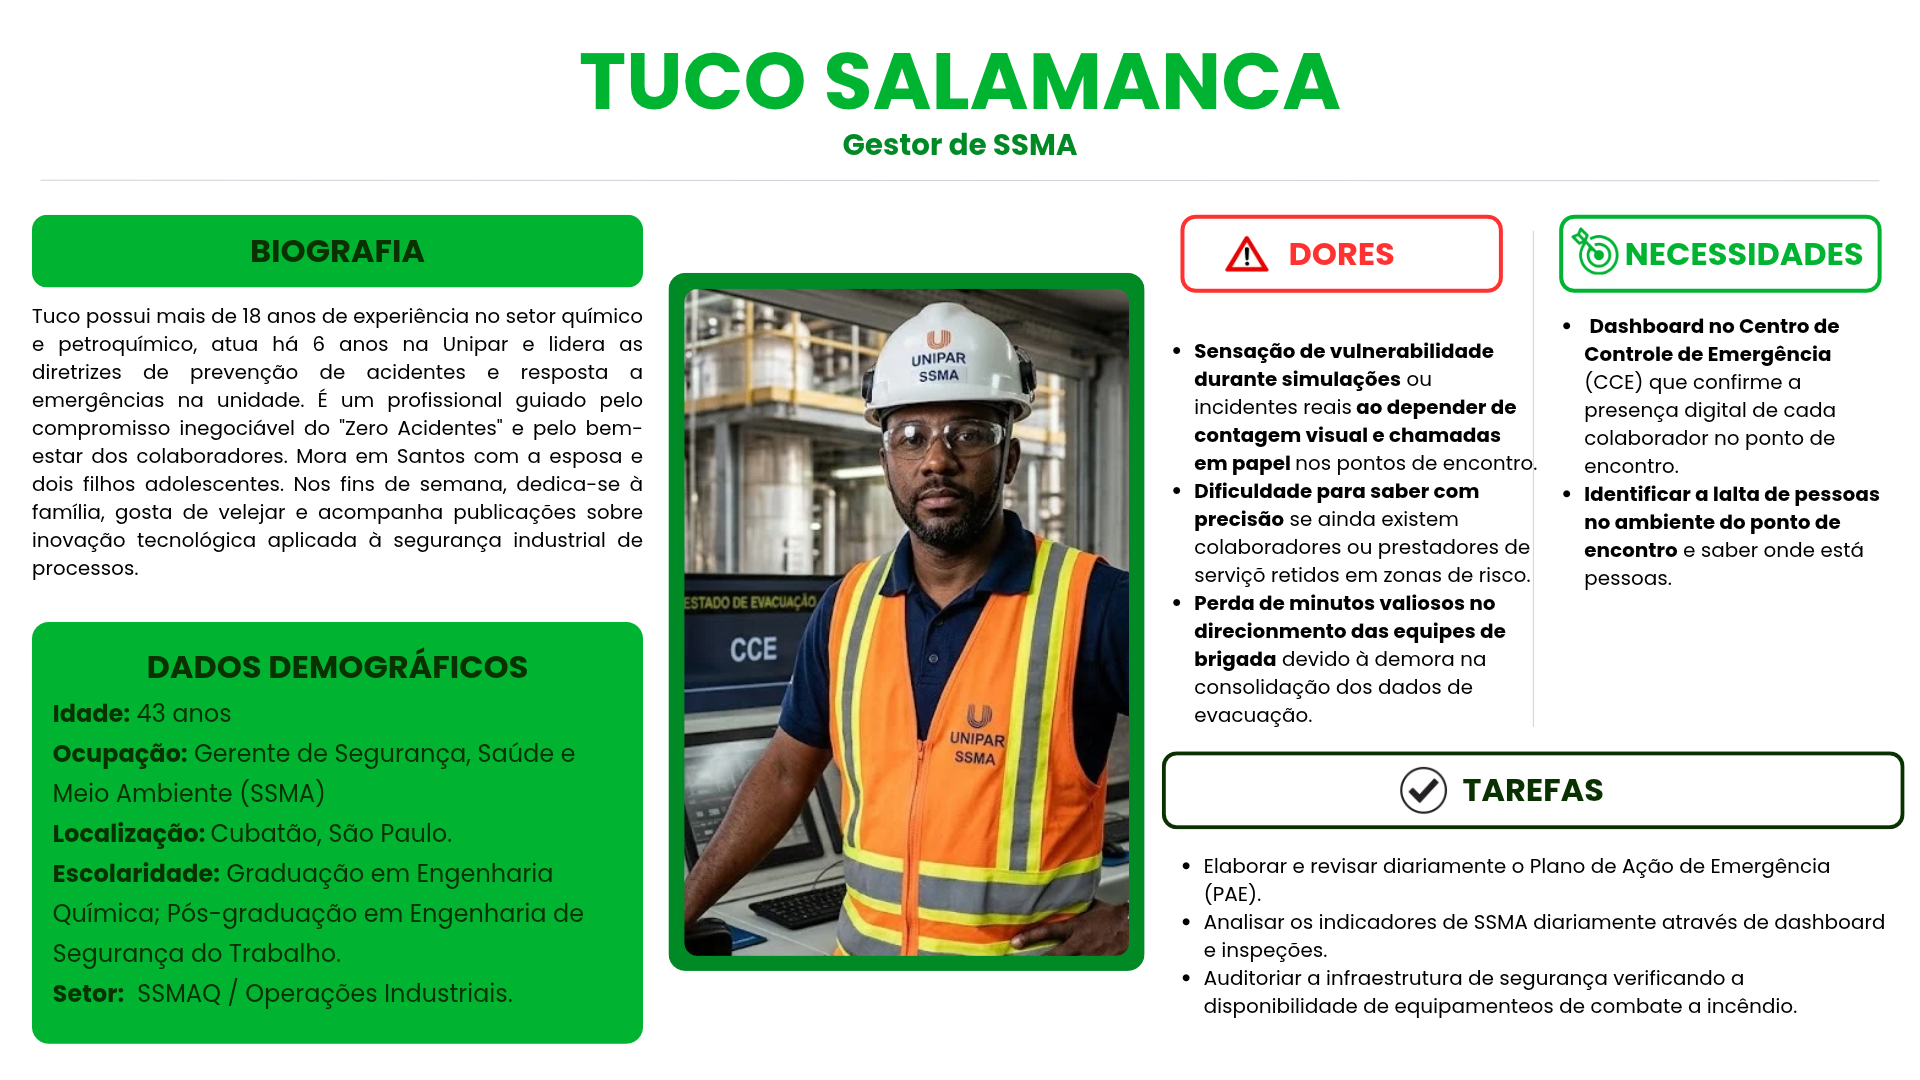
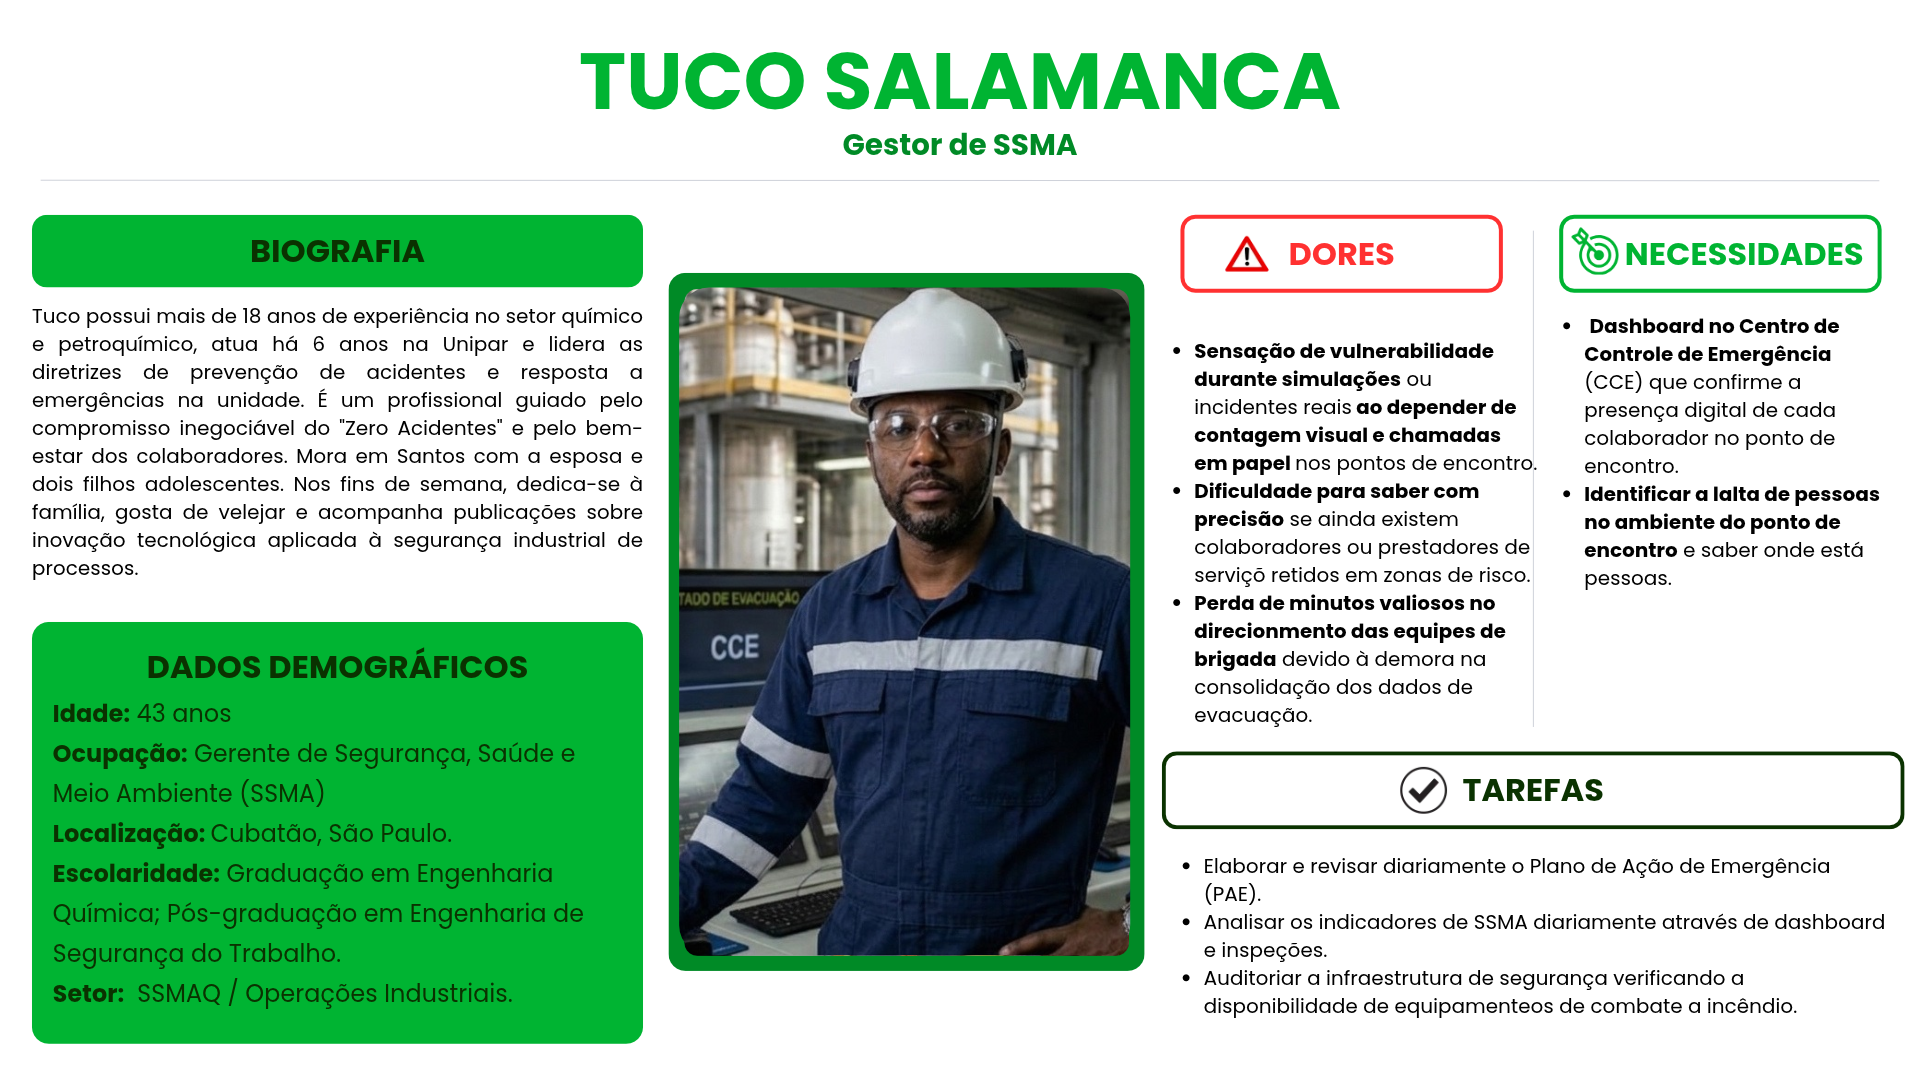
fix(#34): Arrumar imagem da persona de gestor de SSMA

Changed region(s): [[0.3438, 0.2444, 0.5938, 0.8861]]

diff --git a/document/documentacao.md b/document/documentacao.md
@@ -248,7 +248,7 @@ Maria trabalhou em funções de apoio à operação antes de passar para a sala 
 #### 3.2.1.4 Persona - Gestor de SSMA (Segurança, Saúde e Meio Ambiente)
 
 <div align="center">
-  <sub>Figura 03: Operador de Centro de Controle Operacional (CCO)</sub>
+  <sub>Figura 04: Gestor de SSMA </sub>
     </div>
       <div align="center">
        <img src="/assets/personaTucoSalamanca.png">
